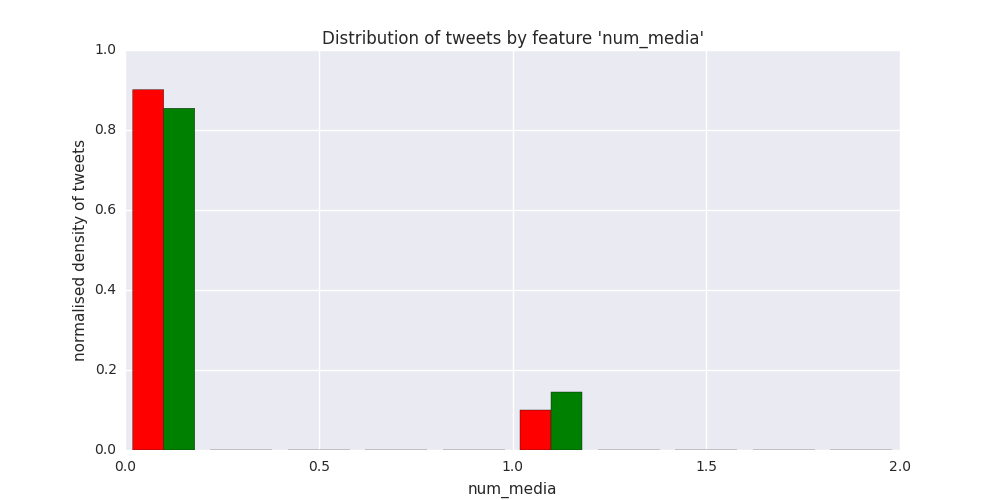
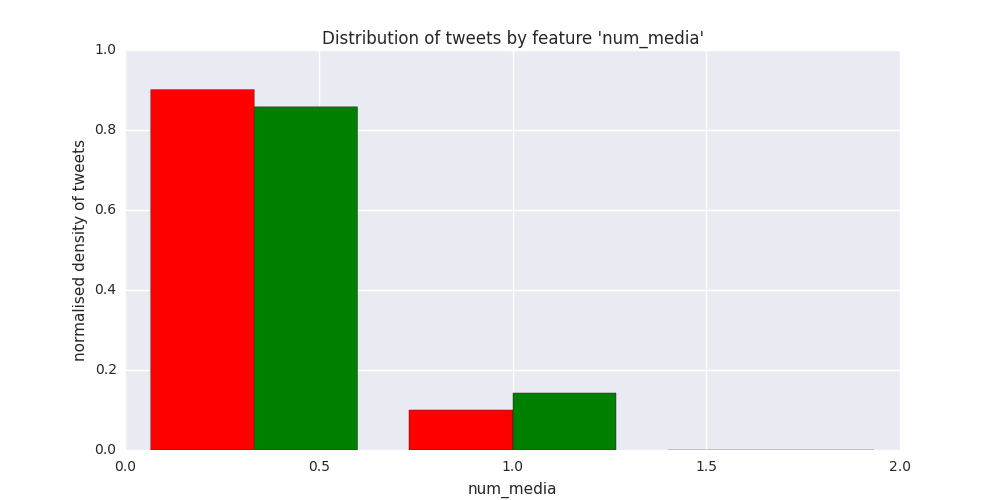
[ML] add derived features related to 'user_screen_name', 'text' and 'created_at' fields

Changed region(s): [[0.124, 0.18, 0.372, 0.9], [0.403, 0.78, 0.62, 0.9]]

diff --git a/plots.py b/plots.py
@@ -1,24 +1,57 @@
 #TODO: change histogram to bar chart
-#TODO: change current histograms to continuous versions for continuous features (eg num followers)
-#TODO: add derived features (eg num caps in username)
+#TODO: add more derived features
 
 import numpy as np
 import matplotlib.pyplot as plt
 import pandas as pd
 from scipy import stats
 import seaborn as sns
+import re
 
 sns.set(color_codes=True)
 
-INPUT_FILE_NAME = '/Users/longaster/Desktop/UROP2017/fakenews/marian/twitter_data_OneMonth_20170731.csv'
+INPUT_FILE_NAME = 'twitter_data_OneMonth_20170731.csv'
+PLOTS_PATH = 'plots/'
 
 # read csv file
 data = pd.read_csv(INPUT_FILE_NAME)
 data = data.dropna(subset=['is_fake_news_2'])
-data = data.drop((data['is_fake_news_2'] == 'UNKNOWN').astype(int))
+data = data[data['is_fake_news_2'] != 'UNKNOWN']
 data['fake'] = (data['is_fake_news_2'] == 'TRUE').astype(int)
 data['user_verified'] = data['user_verified'].astype(int)
 data['num_urls'] = data['num_urls'].astype(int)
+
+
+# add derived features
+def number_of_swears(text):
+    number = 0
+    swearwords = ['fuck', 'shit', 'dumb', 'retard', 'kill', 'crap']
+    for swearword in swearwords:
+        number += len(re.findall(swearword, text.lower()))
+    return number
+def extract_weekday_number(text):
+    weekdays = {'Mon': 1, 'Tue': 2, 'Wed': 3, 'Thu': 4, 'Fri': 5, 'Sat': 6, 'Sun': 7}
+    weekday = re.search('^([A-Z][a-z][a-z])\s', text).group(1)
+    return weekdays[weekday]
+
+data['user_screen_name_number_of_digits']                           = data['user_screen_name'].apply(lambda text:     len(re.findall('[0-9]',     text)))
+data['user_screen_name_has_digits']                                 = data['user_screen_name'].apply(lambda text: int(len(re.findall('[0-9]',     text)) >= 1))
+data['user_screen_name_number_of_caps']                             = data['user_screen_name'].apply(lambda text:     len(re.findall('[A-Z]',     text)))
+data['user_screen_name_has_caps']                                   = data['user_screen_name'].apply(lambda text: int(len(re.findall('[A-Z]',     text)) >= 1))
+data['user_screen_name_number_of_special_chars']                    = data['user_screen_name'].apply(lambda text:     len(re.findall('[A-Z0-9]',  text)))
+data['user_screen_name_has_special_chars']                          = data['user_screen_name'].apply(lambda text: int(len(re.findall('[A-Z0-9]',  text)) >= 1))
+data['user_screen_name_number_of_special_chars_with_underscore']    = data['user_screen_name'].apply(lambda text:     len(re.findall('[A-Z0-9_]', text)))
+data['user_screen_name_has_special_chars_with_underscore']          = data['user_screen_name'].apply(lambda text: int(len(re.findall('[A-Z0-9_]', text)) >= 1))
+data['text_number_of_caps']                                         = data['text'].apply(lambda text:                 len(re.findall('[A-Z]',     text)))
+data['text_has_caps']                                               = data['text'].apply(lambda text:             int(len(re.findall('[A-Z]',     text)) >= 1))
+data['text_number_of_exclam']                                       = data['text'].apply(lambda text:                 len(re.findall('!',         text)))
+data['text_has_exclam']                                             = data['text'].apply(lambda text:             int(len(re.findall('!',         text)) >= 1))
+data['text_number_of_swears']                                       = data['text'].apply(number_of_swears)
+data['created_at_hour']                                             = data['created_at'].apply(lambda text: int(re.search('\s([0-9][0-9]):', text).group(1)))
+data['created_at_hour_23_to_5']                                     = data['created_at_hour'].isin([23, 0, 1, 2, 3, 4, 5])
+data['created_at_hour_13_to_22']                                    = data['created_at_hour'].isin(range(13, 23))
+data['created_at_weekday']                                          = data['created_at'].apply(extract_weekday_number)
+data['created_at_weekday_sun_mon_tue']                              = data['created_at_weekday'].isin([7, 1, 2])
 
 # divide data set into fake and other news
 data_fake = data[data['fake'] == 1]
@@ -26,40 +59,48 @@ data_other = data[data['fake'] == 0]
 
 # plot continuous features
 continuous_features = ['retweet_count', 'user_friends_count', 'user_followers_count',
-                    'user_favourites_count']
+                       'user_favourites_count']
 for feature in continuous_features:
     fig, ax = plt.subplots()
     sns.kdeplot(np.log10(data_fake[feature][data_fake[feature] != 0]), shade=True, ax=ax)
     sns.kdeplot(np.log10(data_other[feature][data_other[feature] != 0]), shade=True, ax=ax)
-    plt.savefig('plots/' + feature + '.png')
+    plt.savefig(PLOTS_PATH + feature + '.png')
 
 # plot discrete features
 discrete_features = ['user_verified', 'geo_coordinates_available', 'num_hashtags', 'num_mentions',
-                     'num_urls', 'num_media']
+                     'num_urls', 'num_media', 'user_screen_name_has_special_chars', 'text_number_of_exclam',
+                     'created_at_hour', 'created_at_hour_23_to_5', 'created_at_hour_13_to_22', 'created_at_weekday',
+                     'created_at_weekday_sun_mon_tue']
 weights_fake = np.ones(data_fake.shape[0])/len(data_fake)
 weights_other = np.ones(data_other.shape[0])/len(data_other)
 weights = [weights_fake, weights_other]
 colors = ['red', 'green']
 for feature in discrete_features:
     plt.figure(figsize=(10, 5))
-    plt.hist([np.ravel(data_fake[feature]), np.ravel(data_other[feature])], weights=weights, color=colors)
+    plt.hist([np.ravel(data_fake[feature]), np.ravel(data_other[feature])], weights=weights, color=colors, bins=len(np.unique(data[feature])))
     plt.xlabel(feature)
     plt.ylabel("normalised density of tweets")
     plt.title("Distribution of tweets by feature '" + feature + "'")
-    plt.savefig('plots/' + feature + '.png')
+    plt.savefig(PLOTS_PATH + feature + '.png')
 
 # calculate statistics
 statistics_features = ['tweet_id', 'retweet_count', 'user_verified', 'user_friends_count', 'user_followers_count',
-            'user_favourites_count', 'geo_coordinates_available', 'num_hashtags',
-            'num_mentions', 'num_urls', 'num_media']
+            'user_favourites_count', 'geo_coordinates_available', 'num_hashtags', 'num_mentions', 'num_urls',
+            'num_media', 'user_screen_name_number_of_digits', 'user_screen_name_has_digits',
+            'user_screen_name_number_of_caps', 'user_screen_name_has_caps', 'user_screen_name_number_of_special_chars',
+            'user_screen_name_has_special_chars', 'user_screen_name_number_of_special_chars_with_underscore',
+            'user_screen_name_has_special_chars_with_underscore', 'text_number_of_caps', 'text_has_caps',
+            'text_number_of_exclam', 'text_has_exclam', 'text_number_of_swears', 'created_at_hour',
+            'created_at_hour_23_to_5', 'created_at_hour_13_to_22', 'created_at_weekday', 'created_at_weekday_sun_mon_tue']
 statistics = []
 for feature in statistics_features:
     t, p = stats.ttest_ind(data_fake[feature].values, data_other[feature].values)
-    statistics.append([feature, t, p])
+    statistics.append([feature, format(float(t), '+.20f'), format(p, '.20f')])
+statistics_sorted = sorted(statistics, key=lambda s: s[2])
 
 # print statistics
-template = '{0:30} {1:30} {2:30}'
-print(template.format("FEATURE", "T TEST", "P VALUE"))
-for statistic in statistics:
+template = '{0:60} {1:30} {2:30}'
+print(template.format("FEATURE", "T VALUE", "P VALUE"))
+for statistic in statistics_sorted:
     print(template.format(*statistic))
 
